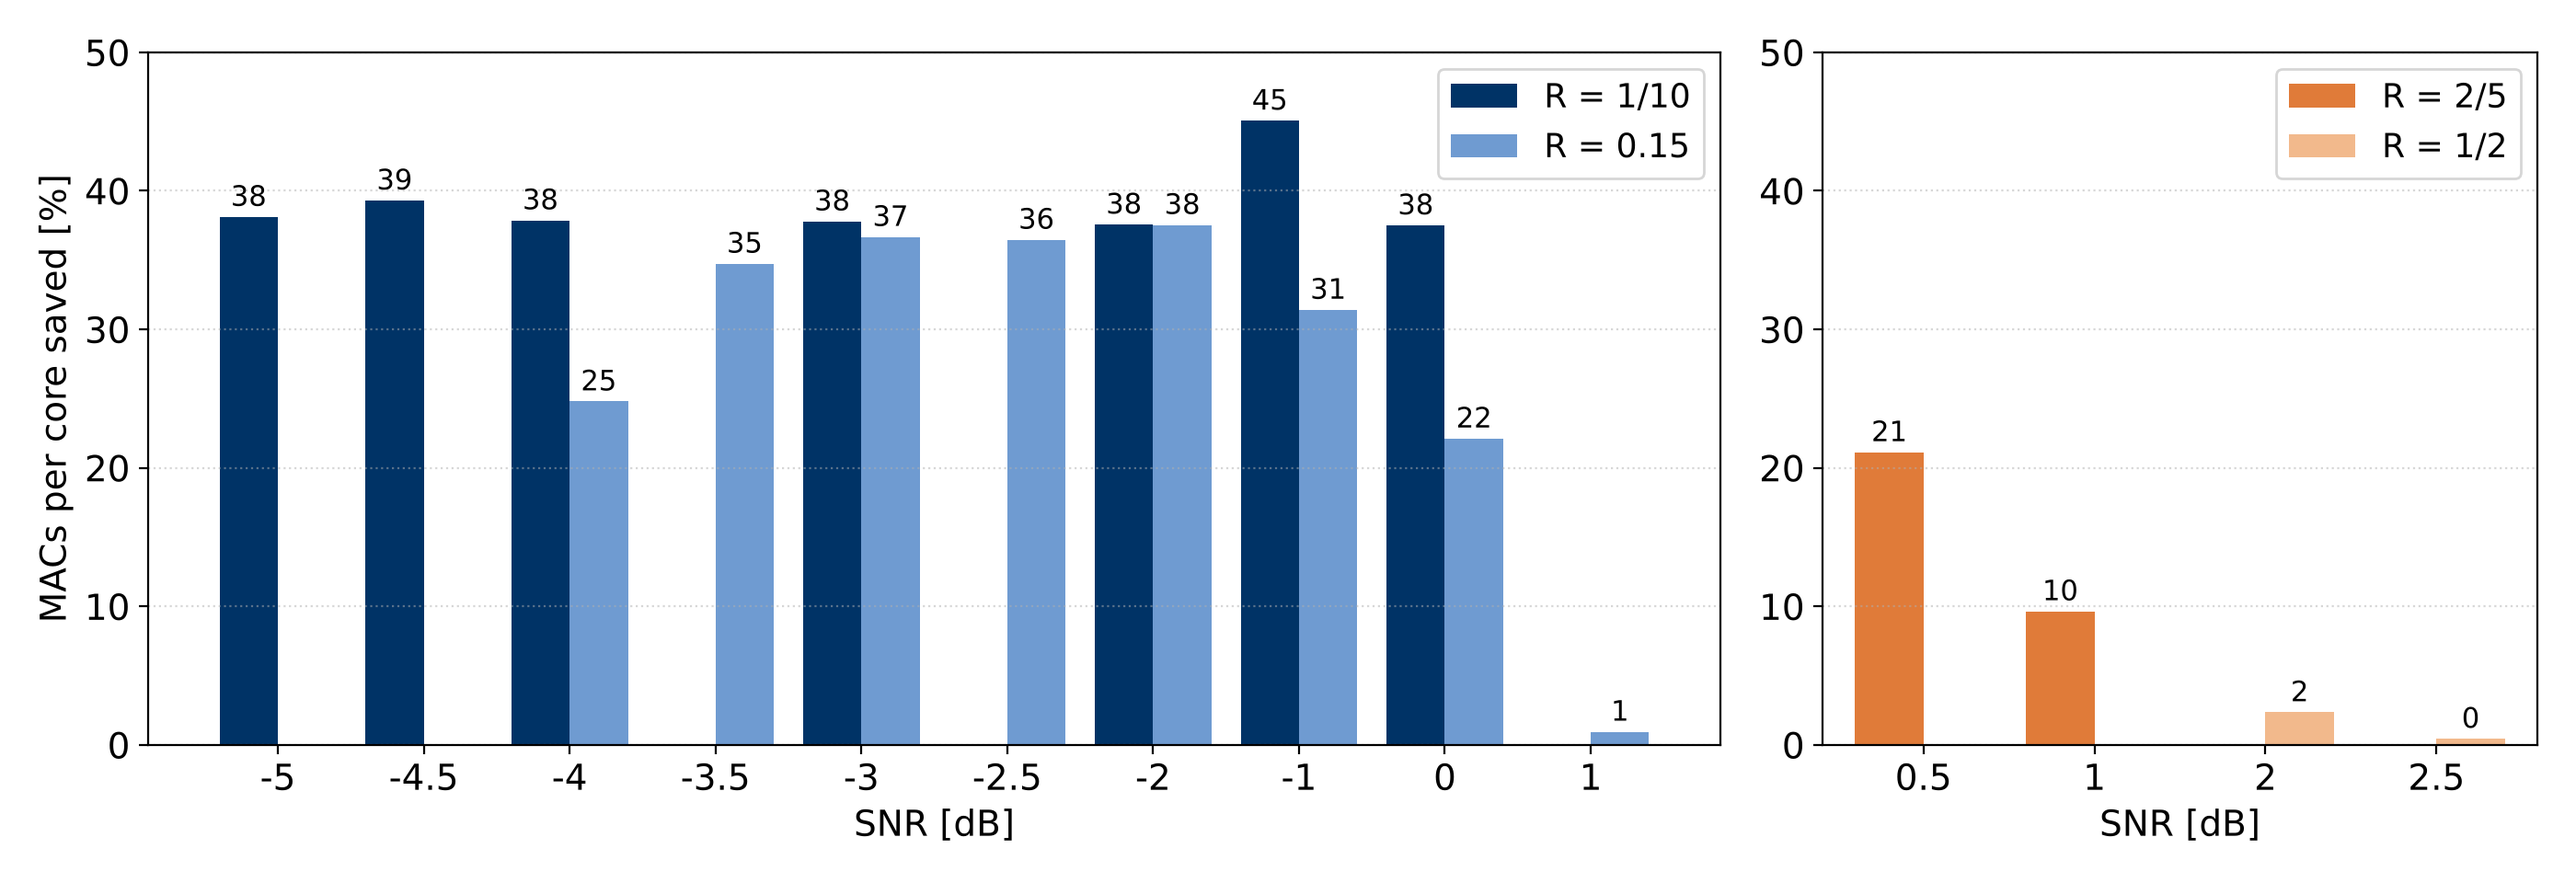
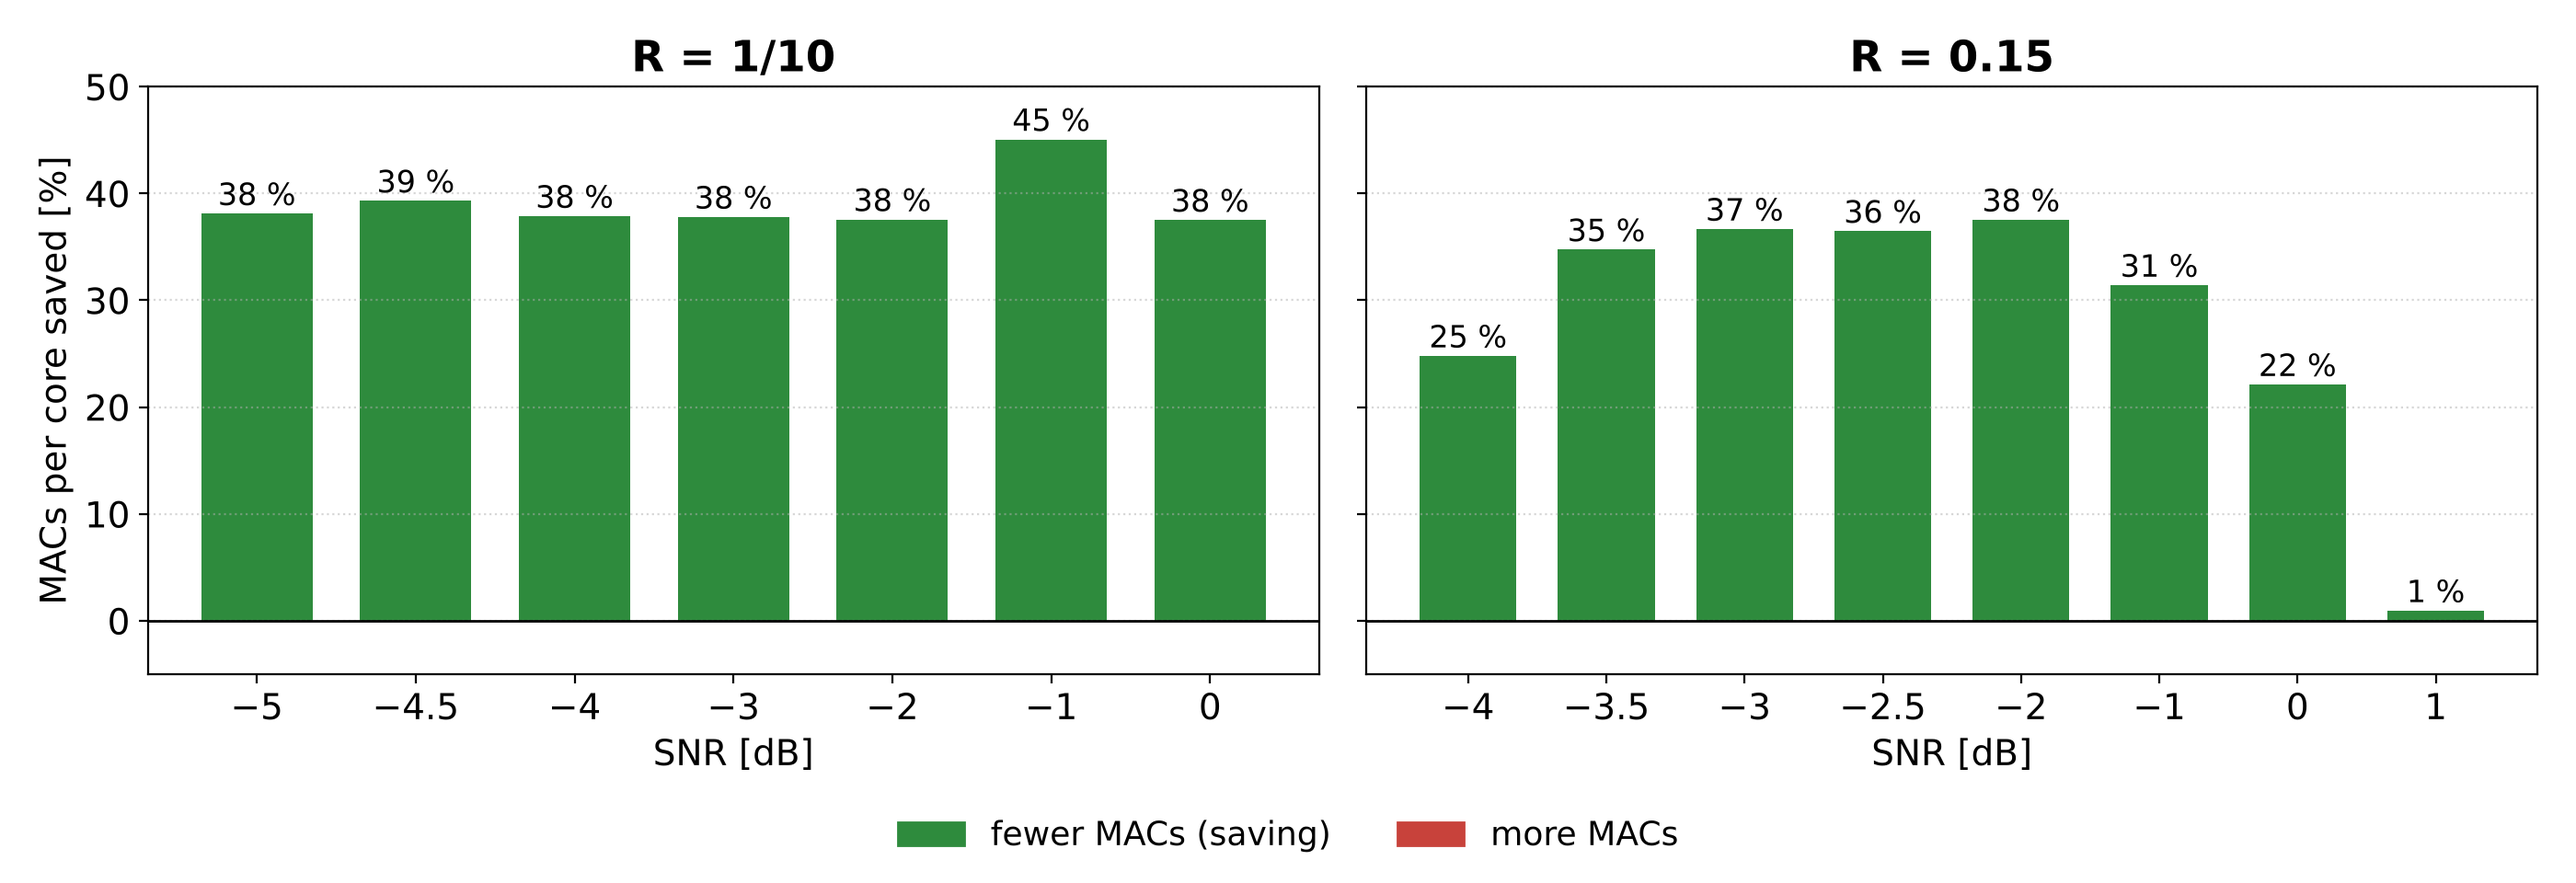
Slides: saving histogram for R = 1/10, 0.15 only, green / red by sign
Claude-Session: https://claude.ai/code/session_01Uut9iw5SnA6a3eeYDv3vkc

diff --git a/slides_eq/plot_saving_hist.py b/slides_eq/plot_saving_hist.py
@@ -1,4 +1,4 @@
-"""Slide 19: MACs per core saved by the adopted testing receiver vs the presentation receiver, per SNR
+"""Slide 19: MACs per core saved by the adopted testing receiver vs the presentation receiver, per SNR, R = 1/10 and 0.15
 -> slides_eq/saving_hist.png
 
     python slides_eq/plot_saving_hist.py
@@ -21,26 +21,23 @@ D = json.load(open(os.path.join(HERE, "data", "testing_vs_pres_17b16ea.json")))
 plt.rcParams.update({"font.size": 14, "font.family": "DejaVu Sans"})
 COL = {"1/10": "#003366", "0.15": "#6f9bd1", "2/5": "#E07B39", "1/2": "#f2b98c"}
 
-fig, axs = plt.subplots(1, 2, figsize=(14, 4.8), gridspec_kw={"width_ratios": [2.2, 1]})
-for ax, rates in zip(axs, (("1/10", "0.15"), ("2/5", "1/2"))):
-    snrs = sorted({float(s) for r in rates for s in D[r]})
-    x = np.arange(len(snrs))
-    w = 0.4
-    for i, r in enumerate(rates):
-        for j, s in enumerate(snrs):
-            v = D[r].get(str(s)) or D[r].get(f"{s:.1f}")
-            if not v:
-                continue
-            y = 100 * (1 - v["test"] / v["pres"])
-            xx = j + (i - 0.5) * w
-            ax.bar(xx, y, w, color=COL[r], label=f"R = {r}" if j == min(k for k, t in enumerate(snrs) if str(t) in D[r] or f"{t:.1f}" in D[r]) else None)
-            ax.text(xx, y + 0.8, f"{y:.0f}", ha="center", fontsize=11)
-    ax.set_xticks(x)
-    ax.set_xticklabels([f"{s:g}" for s in snrs])
+GREEN, RED = "#2e8b3d", "#c8423b"
+fig, axs = plt.subplots(1, 2, figsize=(14, 4.8), sharey=True)
+for ax, r in zip(axs, ("1/10", "0.15")):
+    pts = sorted((float(k), v) for k, v in D[r].items())
+    for j, (snr, v) in enumerate(pts):
+        y = 100 * (1 - v["test"] / v["pres"])
+        ax.bar(j, y, 0.7, color=GREEN if y >= 0 else RED)
+        ax.text(j, y + (0.8 if y >= 0 else -2.5), f"{y:.0f} %", ha="center", fontsize=12)
+    ax.axhline(0, color="k", lw=1)
+    ax.set_xticks(range(len(pts)))
+    ax.set_xticklabels([f"{snr:g}".replace("-", "−") for snr, _ in pts])
     ax.set_xlabel("SNR [dB]")
-    ax.set_ylim(0, 50)
+    ax.set_title(f"R = {r}", fontweight="bold")
+    ax.set_ylim(min(-5, ax.get_ylim()[0]), 50)
     ax.grid(True, axis="y", ls=":", alpha=0.5)
-    ax.legend(fontsize=13, loc="upper right")
 axs[0].set_ylabel("MACs per core saved [%]")
-fig.tight_layout()
+handles = [plt.Rectangle((0, 0), 1, 1, color=GREEN), plt.Rectangle((0, 0), 1, 1, color=RED)]
+fig.legend(handles, ["fewer MACs (saving)", "more MACs"], loc="lower center", ncol=2, fontsize=13, frameon=False)
+fig.tight_layout(rect=(0, 0.08, 1, 1))
 fig.savefig(os.path.join(HERE, "saving_hist.png"), dpi=200, facecolor="white")
